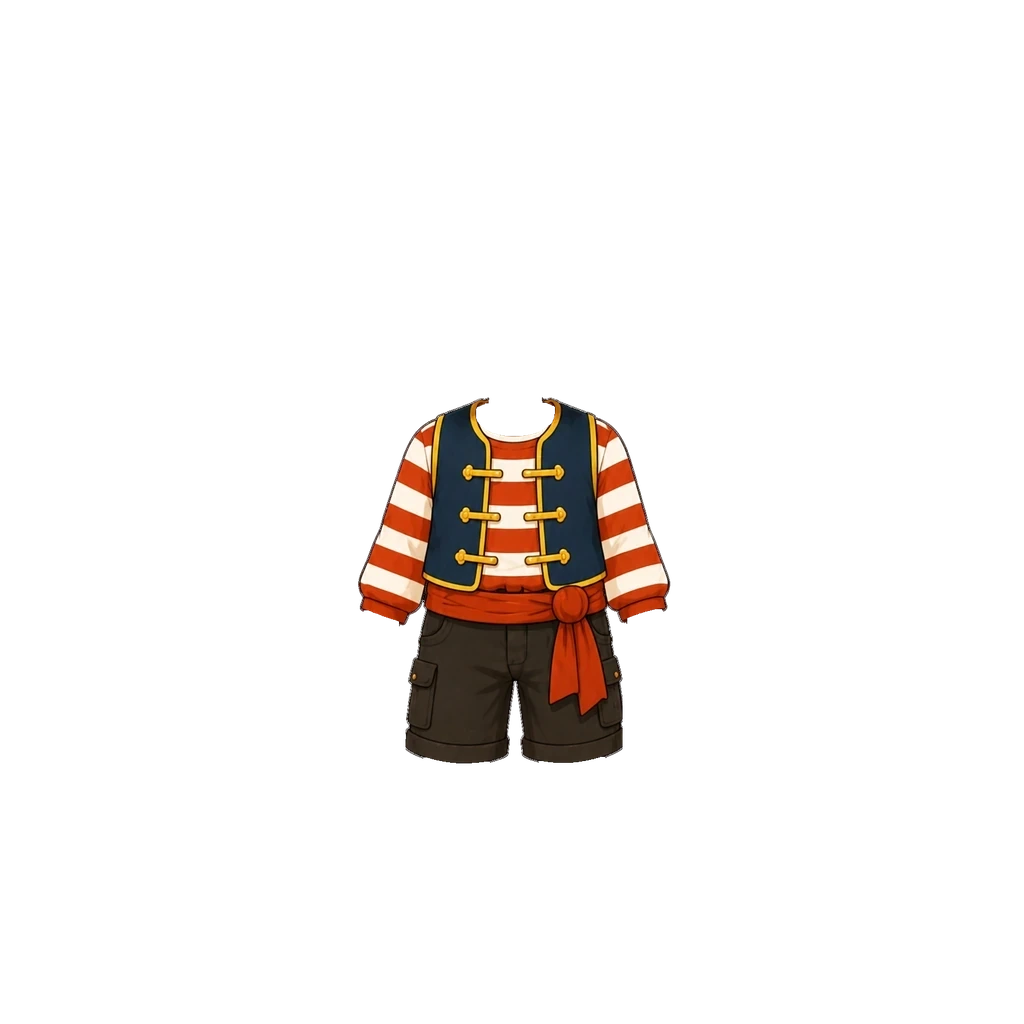
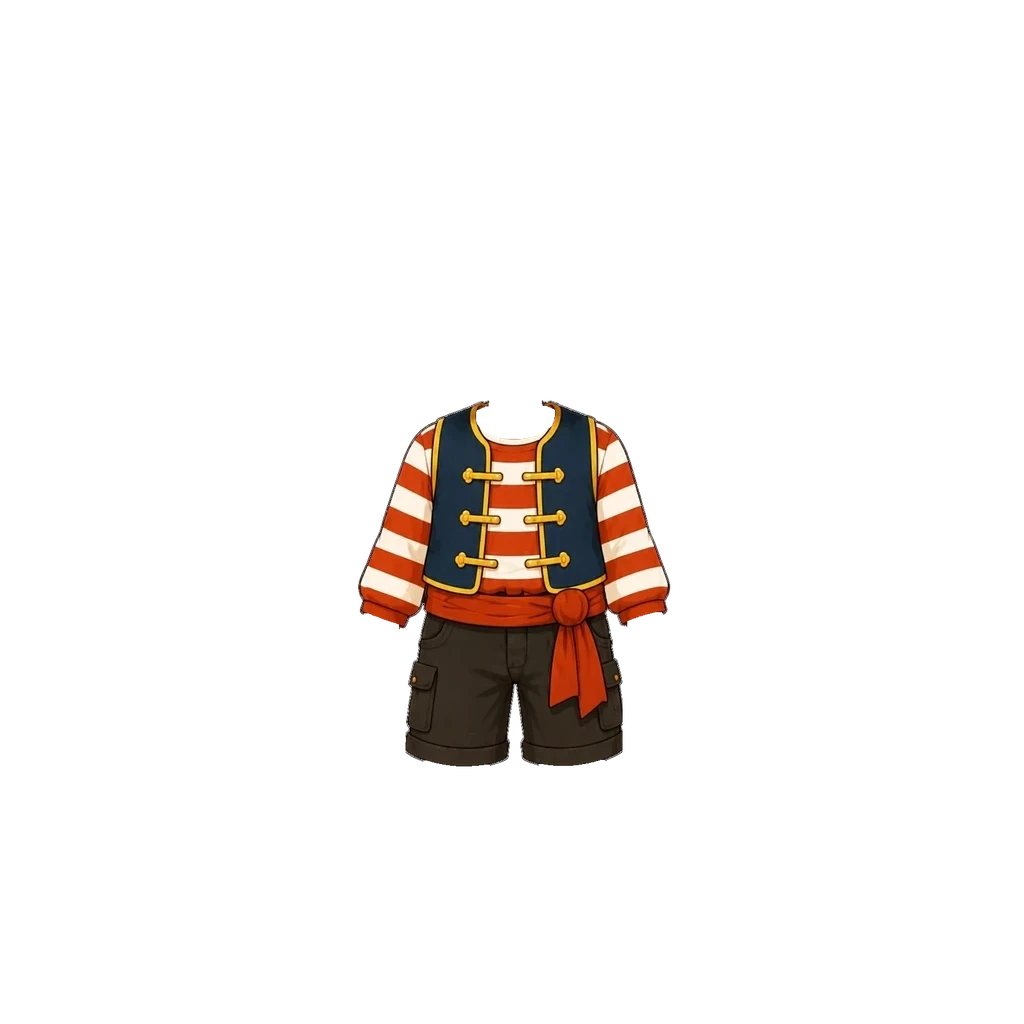
꼬마 해적단(남아) 옷 아래로 3 (#922)
남아 그림만 아래로 3, 탑재 상자 (356,398)-(673,769). img ?v=2(여아·해적 가방 그대로).

Claude-Session: https://claude.ai/code/session_018maNuYqDfFyRSe9uKpZhPR

Changed region(s): [[0.3438, 0.375, 0.6562, 0.625], [0.4062, 0.6562, 0.625, 0.75], [0.375, 0.6562, 0.4062, 0.6875]]

diff --git a/src/data/avatarEquipment.js b/src/data/avatarEquipment.js
@@ -391,8 +391,9 @@ export const AVATAR_CATALOG = [
   /* [2026-10-02] 여아 해적 옷 새 원화로 교체 — 크림 퍼프 블라우스(둥근 깃·주황 리본) + 주황 허리띠 남색 반바지(사용자 원화).
      베이커리룩과 같은 방식: 원화 목 외곽선 중심(x209)을 여아 목 중심 x512.5 에, 곧은 목선이 끝나는 원화 y15 를 y372 에 맞추고
      배율 0.70(원화 목 폭 63 → 여아 목 44, 흰 수영복도 이 값부터 다 가려진다). 원화 목은 페이드. imgGirl ?v=4 · thumbGirl ?v=2.
-     [2026-10-02] 사용자 수정판으로 교체 — 반바지 밑단 아래가 조금 늘었다. 같은 탑재값. imgGirl ?v=5 · thumbGirl ?v=3. */
-  { id: "top_pirate",     slot: "top",   label: "꼬마 해적단",     emoji: "🏴☠", price:DECOR_PRICE.epic, rarity: "epic", theme: "pirate", coversBottom: true, img: "assets/avatar/top/pirate-outfit-boy.webp", imgGirl: "assets/avatar/top/pirate-outfit-girl.webp?v=5", thumb: "assets/avatar/thumb/top_pirate.webp?v=2", thumbGirl: "assets/avatar/thumb/top_pirate-girl.webp?v=4" },
+     [2026-10-02] 사용자 수정판으로 교체 — 반바지 밑단 아래가 조금 늘었다. 같은 탑재값. imgGirl ?v=5 · thumbGirl ?v=3.
+     [2026-10-05] 사용자 조정 — 남아 그림만 아래로 3. 남아 탑재 상자 (356,398,673,769). img ?v=2. */
+  { id: "top_pirate",     slot: "top",   label: "꼬마 해적단",     emoji: "🏴☠", price:DECOR_PRICE.epic, rarity: "epic", theme: "pirate", coversBottom: true, img: "assets/avatar/top/pirate-outfit-boy.webp?v=2", imgGirl: "assets/avatar/top/pirate-outfit-girl.webp?v=5", thumb: "assets/avatar/thumb/top_pirate.webp?v=2", thumbGirl: "assets/avatar/thumb/top_pirate-girl.webp?v=4" },
   /* 민트 후드 — 남아 전용 첫 아이템(forGender:"boy"). 크림 후드 + 왼팔만 보라 소매 +
      민트 후드 안감·꽃 패치 + 짙은 카고 반바지. 상·하의가 한 장이라 상의 슬롯 하나.
      원화는 옷만 오려 낸 깨끗한 그림인데 **후드 안쪽 목·가슴 살은 일부러 남겼다** —

diff --git a/art-src/README.md b/art-src/README.md
@@ -623,3 +623,4 @@ bbox로 여백만 잘라내고 배포본은 높이 480px로 축소했다(전부 
 | acorn-hat-boy-src.webp | **도토리 모자 원화 남아 — 모자+얼굴 한 장 (사용자 원화 2026-10-05)** — 갈색 도토리 비니(새싹 꼭지). hidesHead 로 기본 머리를 대신한다. 얼굴 템플릿 매칭(일치 0.893)으로 배율 0.672·원점 (341,46), y404 아래 자름. 탑재 상자 (342,46,690,397). **[2026-10-05 조정]** 3% 크게(0.6922, 원점 (336,36)) · img ?v=2. 아래로 2(원점 (336,38)) · img ?v=3. 상점 그림은 원화를 세로 160px 로 | avatar/hat/acorn-hat-boy.webp · thumb/hat_acorn_boy.webp |
 | captain-hat-boy-src.webp | **꼬마선장 모자 원화 남아 — 모자+얼굴 한 장 (사용자 원화 2026-10-05)** — 파란 선장 모자(흰 띠·닻 배지). hidesHead 로 기본 머리를 대신한다. 얼굴 템플릿 매칭(일치 0.907)으로 배율 0.684·원점 (336,70), y404 아래 자름. 탑재 상자 (336,70,694,394). **[2026-10-05 조정]** 3% 크게(0.7045, 원점 (331,60)) · img ?v=2. 아래로 5·왼쪽 1(원점 (330,65)) · img ?v=3. 왼쪽 1·아래로 2 더(원점 (329,67)) · img ?v=4. 상점 그림은 원화를 세로 160px 로 | avatar/hat/captain-hat-boy.webp · thumb/hat_captain_boy.webp |
 | explorer-pack-boy-src.webp · explorer-pack-straps-boy-src.webp | **해적 가방 원화 남아(처음 이름 탐험 가방) (사용자 원화 2026-10-05)** — 가방 몸통 290×373(가죽 배낭+지도 두루마리)·어깨끈 263×198, 투명 배경. 가방은 몸 뒤(z15) 배율 0.70·원점 (505,350), 끈은 옷 위(zFront 48) 배율 0.76·가운데 x516·위끝 y414. 가방 상자 (505,350,708,611) · 끈 상자 (416,414,616,564). **[2026-10-05 조정]** 왼쪽 끈 →30·오른쪽 끈 ←30, 가방 위로 20·오른쪽 10(원점 (515,330)), 끈 상자 (446,414,586,564) · 가방 상자 (515,330,718,591) · ?v=2. 끈만 다시: 처음 자리에서 버클 아래 바깥 끝선을 옆구리 선에 맞춰 왼쪽 끈 →15·오른쪽 끈 ←17, 끈 상자 (431,414,599,564) · imgFront ?v=3. 끈 윗선을 어깨선에 맞춰 왼쪽 위로 7·오른쪽 위로 6, 끈 상자 (431,407,599,557) · imgFront ?v=4. 가방 몸통 아래로 10·왼쪽 7(원점 (508,340)), 가방 상자 (508,340,711,601) · img ?v=3. 끈 윗선을 꼬마 해적단 옷 어깨선에 맞춰 양쪽 위로 4, 끈 상자 (431,403,599,553) · imgFront ?v=5. 상점 그림은 가방 원화를 세로 160px 로 | avatar/back/explorer-pack-boy.webp · explorer-pack-straps-boy.webp · thumb/back_explorer.webp |
+| pirate-boy-worn-src.webp | **꼬마 해적단 남아 탑재 조정 기록 (2026-10-05)** — 원본 행이 없어 조정만 남긴다. 사용자 조정: 남아 그림만 아래로 3, 탑재 상자 (356,395,673,766) → (356,398,673,769) · img ?v=2. 여아 그림(imgGirl)은 그대로 | avatar/top/pirate-outfit-boy.webp |
